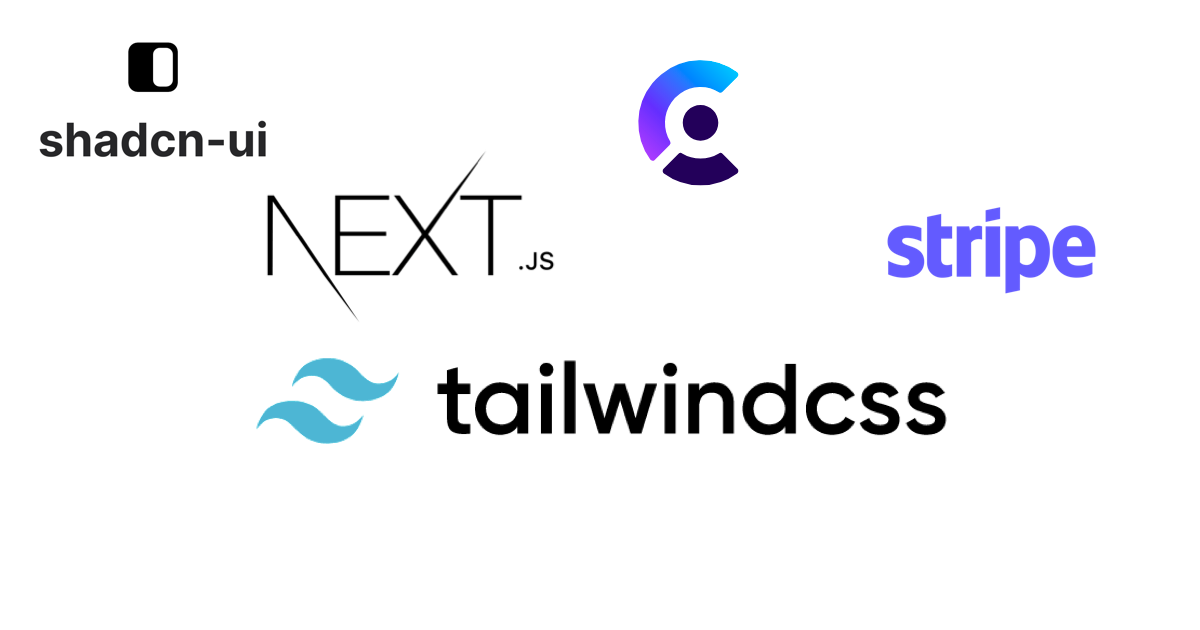
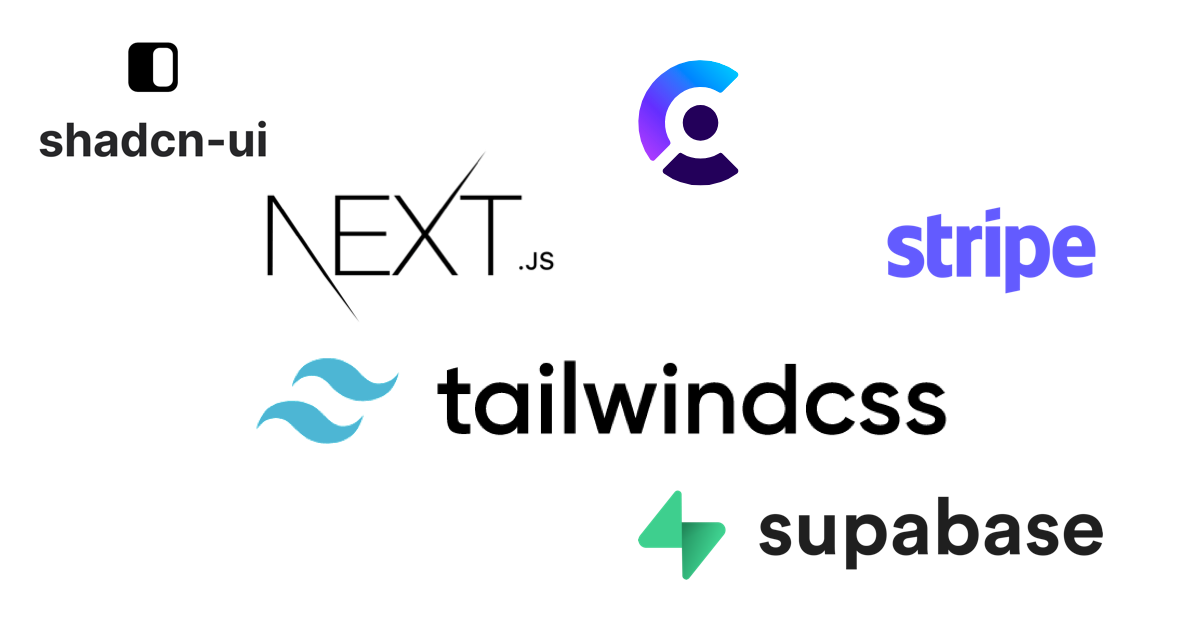
modification image dernier projet

Changed region(s): [[0.5242, 0.7841, 0.925, 0.9349]]

diff --git a/src/components/header/header.css b/src/components/header/header.css
@@ -1,112 +1,112 @@
 .header {
-    width: 100%;
-    position: fixed;
-    top: 0;
-    left: 0;
-    z-index: var(--z-fixed);
-    background-color: #f2f2f2;
+  width: 100%;
+  position: fixed;
+  top: 0;
+  left: 0;
+  z-index: var(--z-fixed);
+  background-color: #f2f2f2;
 }
 
 .nav {
-    height: calc(var(--header-height) + 1.5rem);
-    display: flex;
-    justify-content: space-between;
-    align-items: center;
-    column-gap: 1rem;
+  height: calc(var(--header-height) + 1.5rem);
+  display: flex;
+  justify-content: space-between;
+  align-items: center;
+  column-gap: 1rem;
 }
 
 .nav__logo {
-    color: var(--primary);
-    font-size: var(--h3-font-size);
+  color: var(--primary);
+  font-size: var(--h3-font-size);
 }
 
 
 .nav__logo .nav__toggle {
-    color: #2071e7;
-    font-weight: var(--font-medium);
+  color: #2071e7;
+  font-weight: var(--font-medium);
 }
 
 .nav__list {
-    display: flex;
-    column-gap: 2rem;
-    text-transform: uppercase;
+  display: flex;
+  column-gap: 2rem;
+  text-transform: uppercase;
 }
 
 .nav__link {
-    display: flex;
-    flex-direction: column;
-    align-items: center;
-    font-size: var(--small-font-size);
-    color: #262626;
-    font-weight: var(--font-medium);
-    transition: border 200ms;
-    border-bottom: 2px solid transparent;
+  display: flex;
+  flex-direction: column;
+  align-items: center;
+  font-size: var(--small-font-size);
+  color: #262626;
+  font-weight: var(--font-medium);
+  transition: border 200ms;
+  border-bottom: 2px solid transparent;
 }
 
 .nav__icon,
 .nav__close,
 .nav__toggle {
-    display: none;
+  display: none;
 }
 
 .active-link,
 .nav__link:hover {
-    border-bottom: 2px solid var(--primary);
-    ;
+  border-bottom: 2px solid var(--primary);
+  ;
 }
 
 /* For medium devices */
 @media screen and (max-width: 768px) {
-    .header {
-        top: initial;
-        bottom: 0;
-    }
+  .header {
+    top: initial;
+    bottom: 0;
+  }
 
-    .nav {
-        height: var(--header-height);
-    }
-
-
-    .nav__menu {
-        position: fixed;
-        bottom: -100%;
-        left: 0;
-        width: 100%;
-        background-color: #f2f2f2;
-        padding: 2rem 1.5rem 4rem;
-        box-shadow: 0 -1px 4px rgba(0, 0, 0, 0.15);
-        border-radius: 1.5rem 1.5rem 0 0;
-        transition: .3s;
-    }
-
-    .show-menu {
-        bottom: 0;
-    }
-
-    .nav__list {
-        display: grid;
-        grid-template-columns: repeat(3, 1fr);
-        gap: 2rem;
-    }
-
-    .nav__icon {
-        font-size: 1.6rem;
-    }
+  .nav {
+    height: var(--header-height);
+  }
 
 
-    .nav__logo {
-        display: none;
-    }
+  .nav__menu {
+    position: fixed;
+    bottom: -100%;
+    left: 0;
+    width: 100%;
+    background-color: #f2f2f2;
+    padding: 2rem 1.5rem 4rem;
+    box-shadow: 0 -1px 4px rgba(0, 0, 0, 0.15);
+    border-radius: 1.5rem 1.5rem 0 0;
+    transition: .3s;
+  }
 
-    .nav__close,
-    .nav__toggle {
-        position: absolute;
-        left: 50%;
-        transform: translateX(-50%);
-        bottom: .5rem;
-    }
+  .show-menu {
+    bottom: 0;
+  }
 
-    /* .nav__close {
+  .nav__list {
+    display: grid;
+    grid-template-columns: repeat(3, 1fr);
+    gap: 2rem;
+  }
+
+  .nav__icon {
+    font-size: 1.6rem;
+  }
+
+
+  .nav__logo {
+    display: none;
+  }
+
+  .nav__close,
+  .nav__toggle {
+    position: absolute;
+    left: 50%;
+    transform: translateX(-50%);
+    bottom: .5rem;
+  }
+
+  /* .nav__close {
         position: absolute;
         right: 1.3rem;
         bottom: .5rem;
@@ -116,29 +116,29 @@
     } */
 
 
-    .nav__close:hover {
-        color: var(--title-color-dark);
-    }
+  .nav__close:hover {
+    color: var(--title-color-dark);
+  }
 
-    .nav__toogle {
-        font-size: 1.1rem;
-        cursor: pointer;
-    }
+  .nav__toogle {
+    font-size: 1.1rem;
+    cursor: pointer;
+  }
 
-    .nav__icon,
-    .nav__close,
-    .nav__toggle {
-        display: block;
-    }
+  .nav__icon,
+  .nav__close,
+  .nav__toggle {
+    display: block;
+  }
 }
 
 /* For small devices */
 @media screen and (max-width: 350px) {
-    .nav__menu {
-        padding: 2rem 0.25rem 4rem;
-    }
+  .nav__menu {
+    padding: 2rem 0.25rem 4rem;
+  }
 
-    .nav__list {
-        column-gap: 0;
-    }
+  .nav__list {
+    column-gap: 0;
+  }
 }

diff --git a/src/components/skills/Frontend.jsx b/src/components/skills/Frontend.jsx
@@ -10,20 +10,18 @@ const Frontend = () => {
             <div className="skills__box">
 
                 <ul className="skills__group" role="list">
-                    <li className="skills__data" role="listitem">
+                    {/* <li className="skills__data" role="listitem">
                         <i className="devicon-html5-plain skills__icon" alt=""></i>
                         <p className="skills__name">HTML</p>
                     </li>
                     <li className="skills__data" role="listitem">
                         <i className="devicon-css3-plain skills__icon" alt=""></i>
                         <p className="skills__name">CSS</p>
-                    </li>
+                    </li> */}
                     <li className="skills__data" role="listitem">
                         <i className="devicon-javascript-plain skills__icon" alt=""></i>
                         <p className="skills__name">JavaScript</p>
                     </li>
-                </ul>
-                <ul className="skills__group" role="list">
                     <li className="skills__data" role="listitem">
                         <i className="devicon-react-original skills__icon" alt=""></i>
                         <p className="skills__name">React</p>
@@ -32,6 +30,8 @@ const Frontend = () => {
                         <i className="devicon-nextjs-original skills__icon" alt=""></i>
                         <p className="skills__name">Next.js</p>
                     </li>
+                </ul>
+                <ul className="skills__group" role="list">
                     <li className="skills__data" role="listitem">
                         <i className="devicon-tailwindcss-plain skills__icon" alt=""></i>
                         <p className="skills__name">Tailwindcss</p>

diff --git a/src/components/work/Data.jsx b/src/components/work/Data.jsx
@@ -10,7 +10,6 @@ export const projectsData = [
     title: "Full Stack Next.JS 13 | E-commerce Platform",
     category: "application web",
     subtitle: 'Stack utilisée :',
-    repo: "",
     technos: [
             {
                 stack: '#Next.JS 13'
@@ -26,7 +25,10 @@ export const projectsData = [
             },
             {
                 stack: '#Stripe'
-      },
+            },
+            {
+                stack: '#Supabase'
+            },
             {
                 stack: '#Shadcn-ui'
             },
